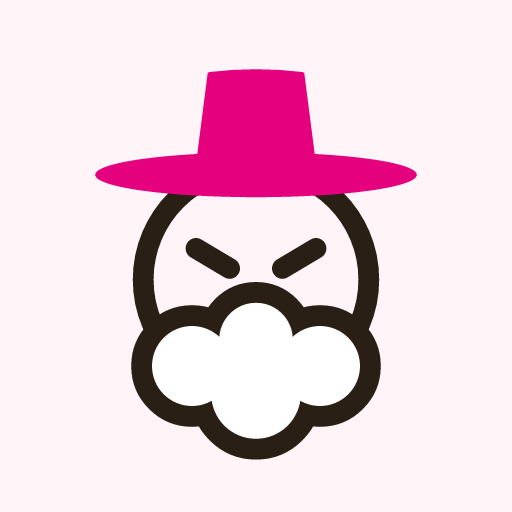
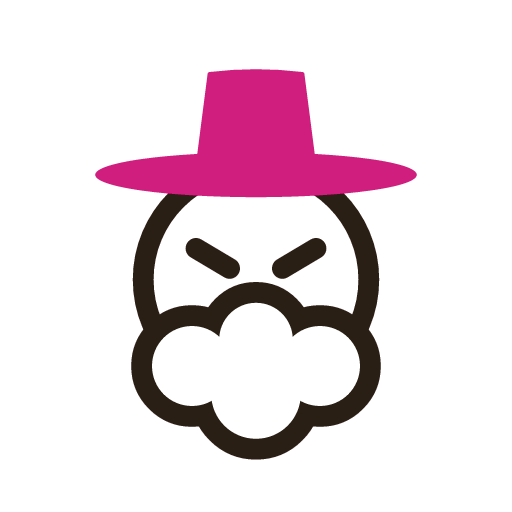
전체 색 톤다운: 마젠타 #D01E7E + 흰 바탕, 자료실 배너를 연한 상자로, 앱 아이콘 색 갱신

Changed region(s): [[0.1875, 0.125, 0.8125, 0.4062]]

diff --git a/만들기.js b/만들기.js
@@ -294,7 +294,7 @@ i{font-style:normal}
 .표칸 th,.표칸 td{border:1px solid var(--선);padding:9px 11px;text-align:left;vertical-align:top;line-height:1.6}
 .표칸 th{background:var(--연함);font-weight:700}
 .표칸 td:empty{height:38px}
-.자료띠{margin:26px 0 8px;padding:16px 0 16px 16px;background:var(--연함);border-radius:16px;overflow:hidden}
+.자료띠{margin:26px 0 8px;padding:16px 0 16px 16px;background:var(--아주연함);border:1px solid var(--선);border-radius:16px;overflow:hidden}
 .띠머리{display:flex;align-items:center;justify-content:space-between;gap:12px;flex-wrap:wrap;padding-right:16px}
 .띠머리 b{display:block;font-size:17px}.띠머리 span{font-size:13px;color:var(--sub)}
 .띠줄{display:flex;gap:10px;margin-top:14px;padding:2px 16px 4px 0;overflow-x:auto;-webkit-overflow-scrolling:touch;scrollbar-width:none}
